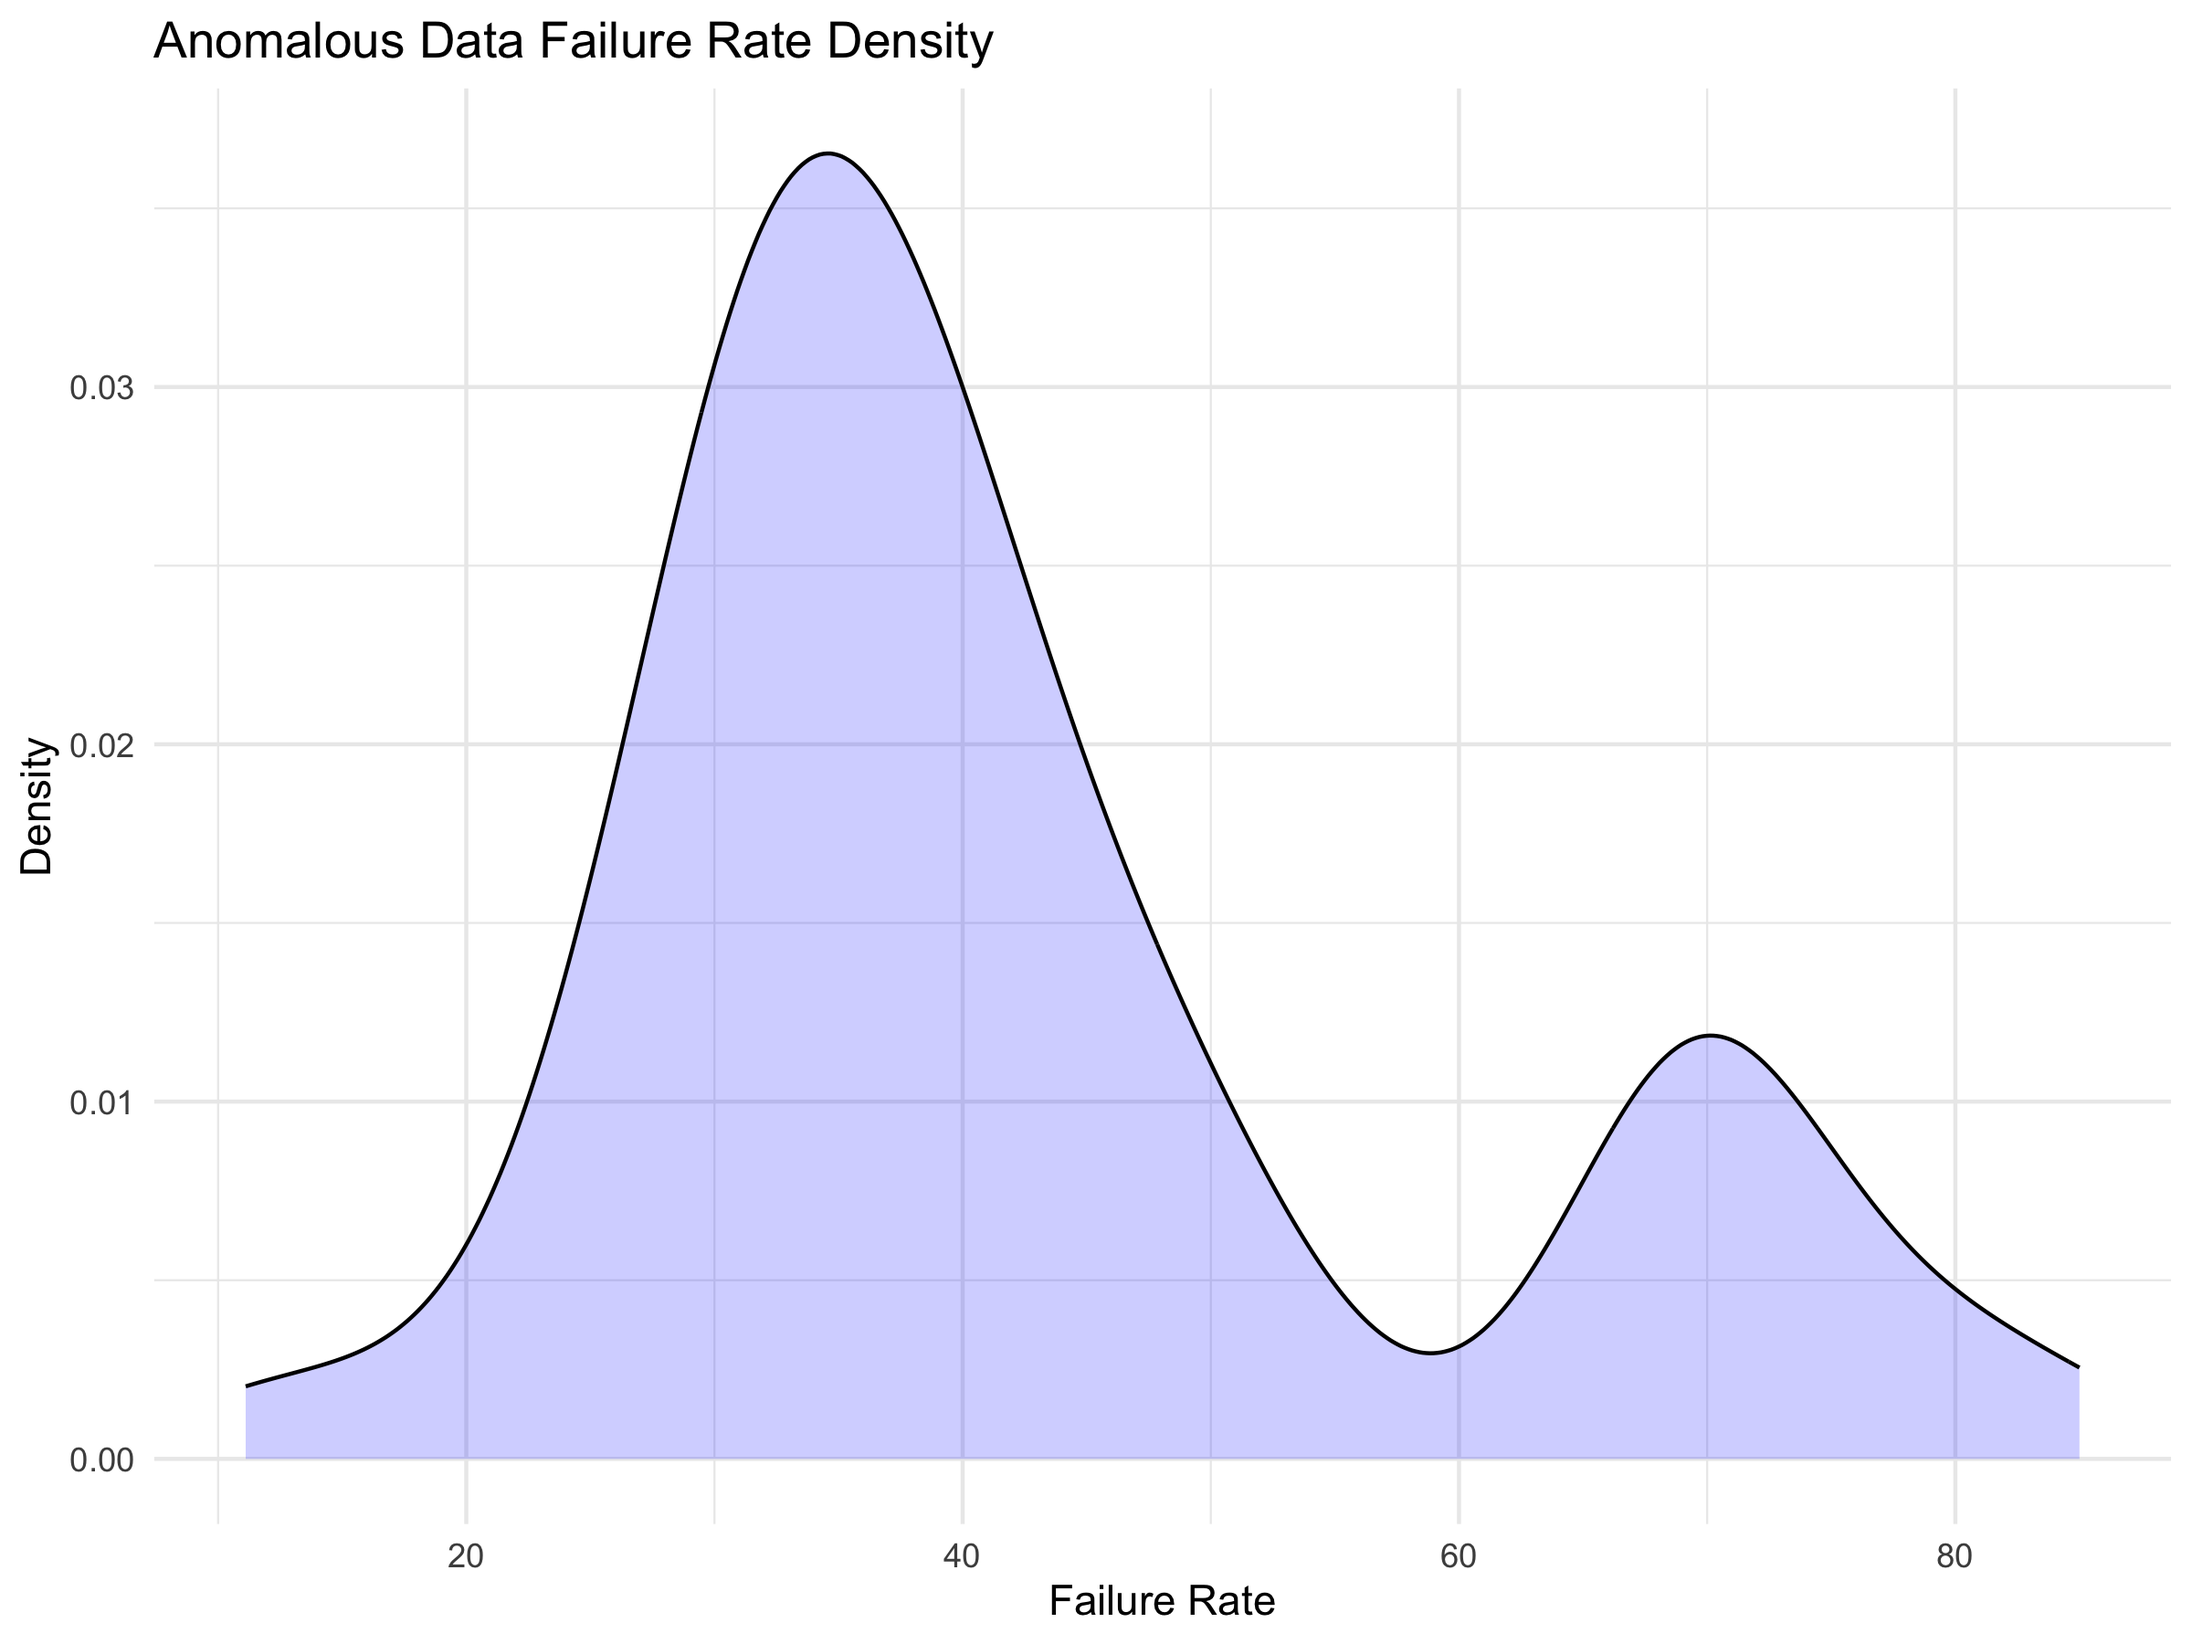
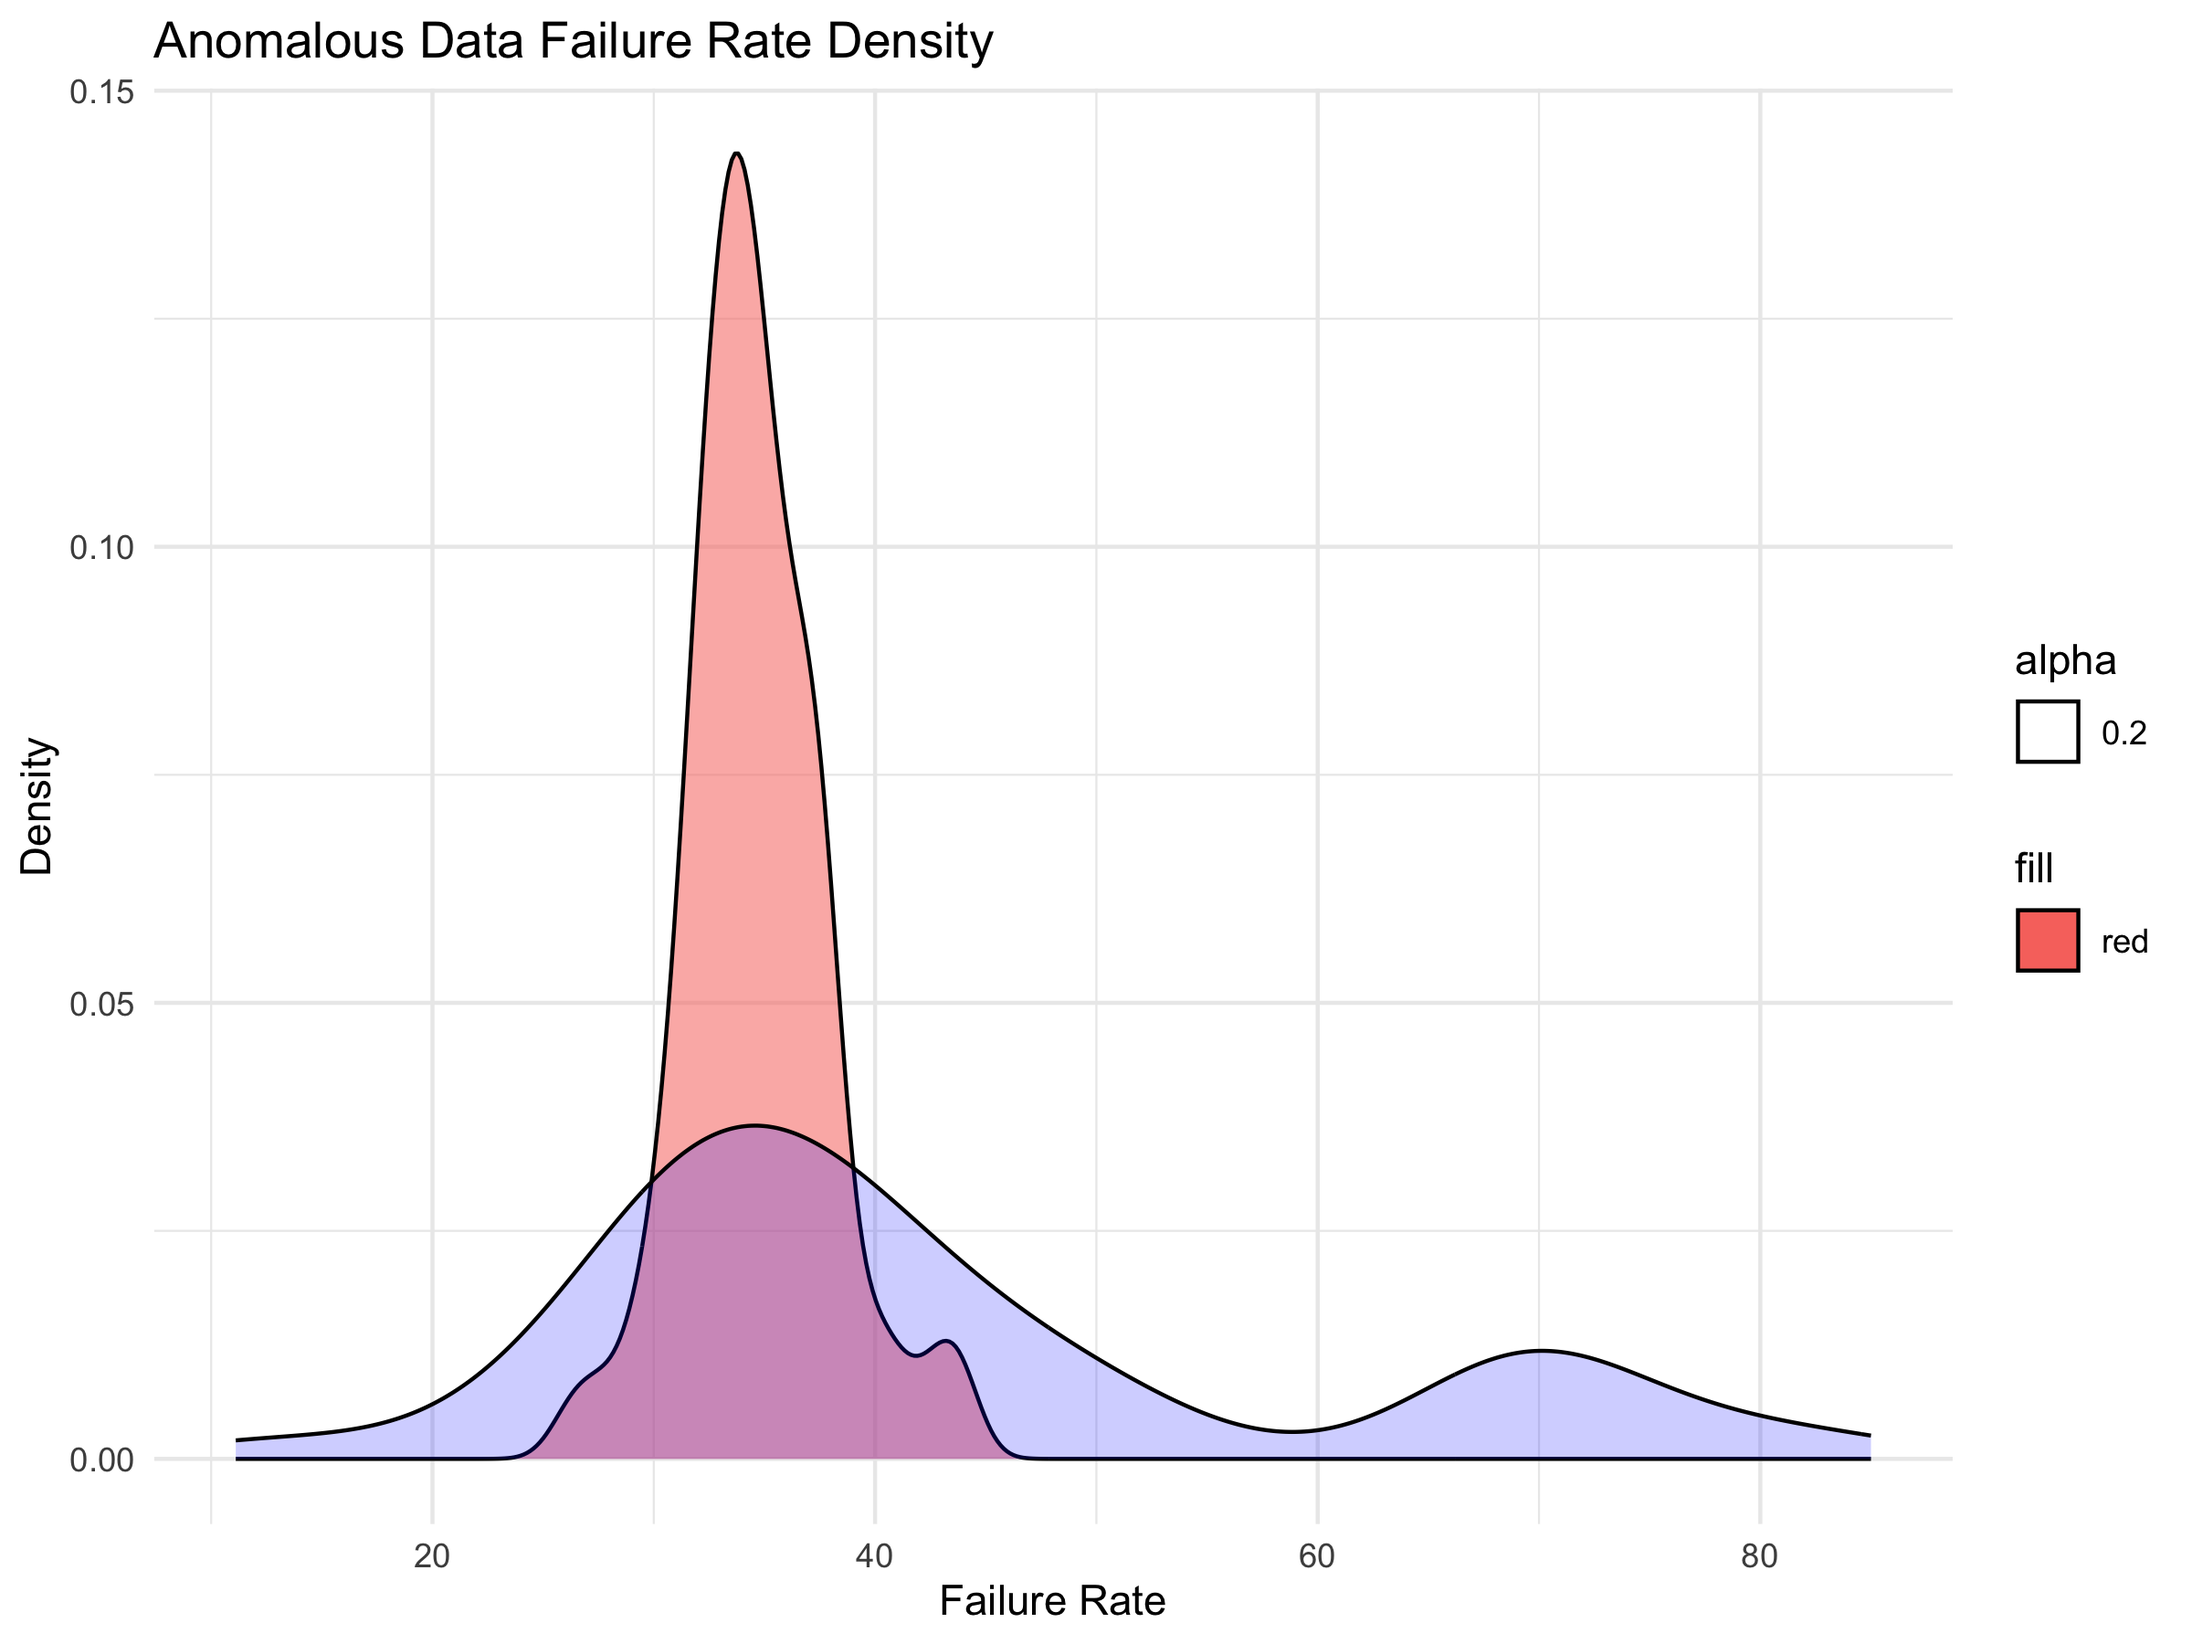
l

diff --git a/Anamoly_Detection/ReadMe.md b/Anamoly_Detection/ReadMe.md
@@ -735,12 +735,20 @@ You can see that the anomalous data has much higher variance than the
 normal data, but this is expected as the anomalous data only has ~500
 observations and the normal data has 1800.
 
-The following plots clarifies the situation.
+The following graphics displays the distribution of the anamolous data
+over a shifting 18 hour time window of first 18 hours of the dataset
+until the last 18 hours of the data set out of the 72.
+
+![Density Plot Animation](ReadMe_files/figure-gfm/density_animation_high_quality.gif)
+
+The distribution of the anomalous data over the entire 72 hours is as
+follows.
 
 ``` r
 library(plotly)
 
 ggplot(data = wide, aes(proportion_subset)) + 
+  geom_density(data=wide,aes(proportion_c,fill="red",alpha=0.20)) + 
   geom_density(fill = "blue", alpha = 0.20) + 
   theme_minimal() + 
   labs(
@@ -755,5 +763,3 @@ ggplot(data = wide, aes(proportion_subset)) +
 <img src="ReadMe_files/figure-gfm/unnamed-chunk-21-1.png" width="70%">
 
 </div>
-
-![Density Plot Animation](ReadMe_files/figure-gfm/density_animation_high_quality.gif)
